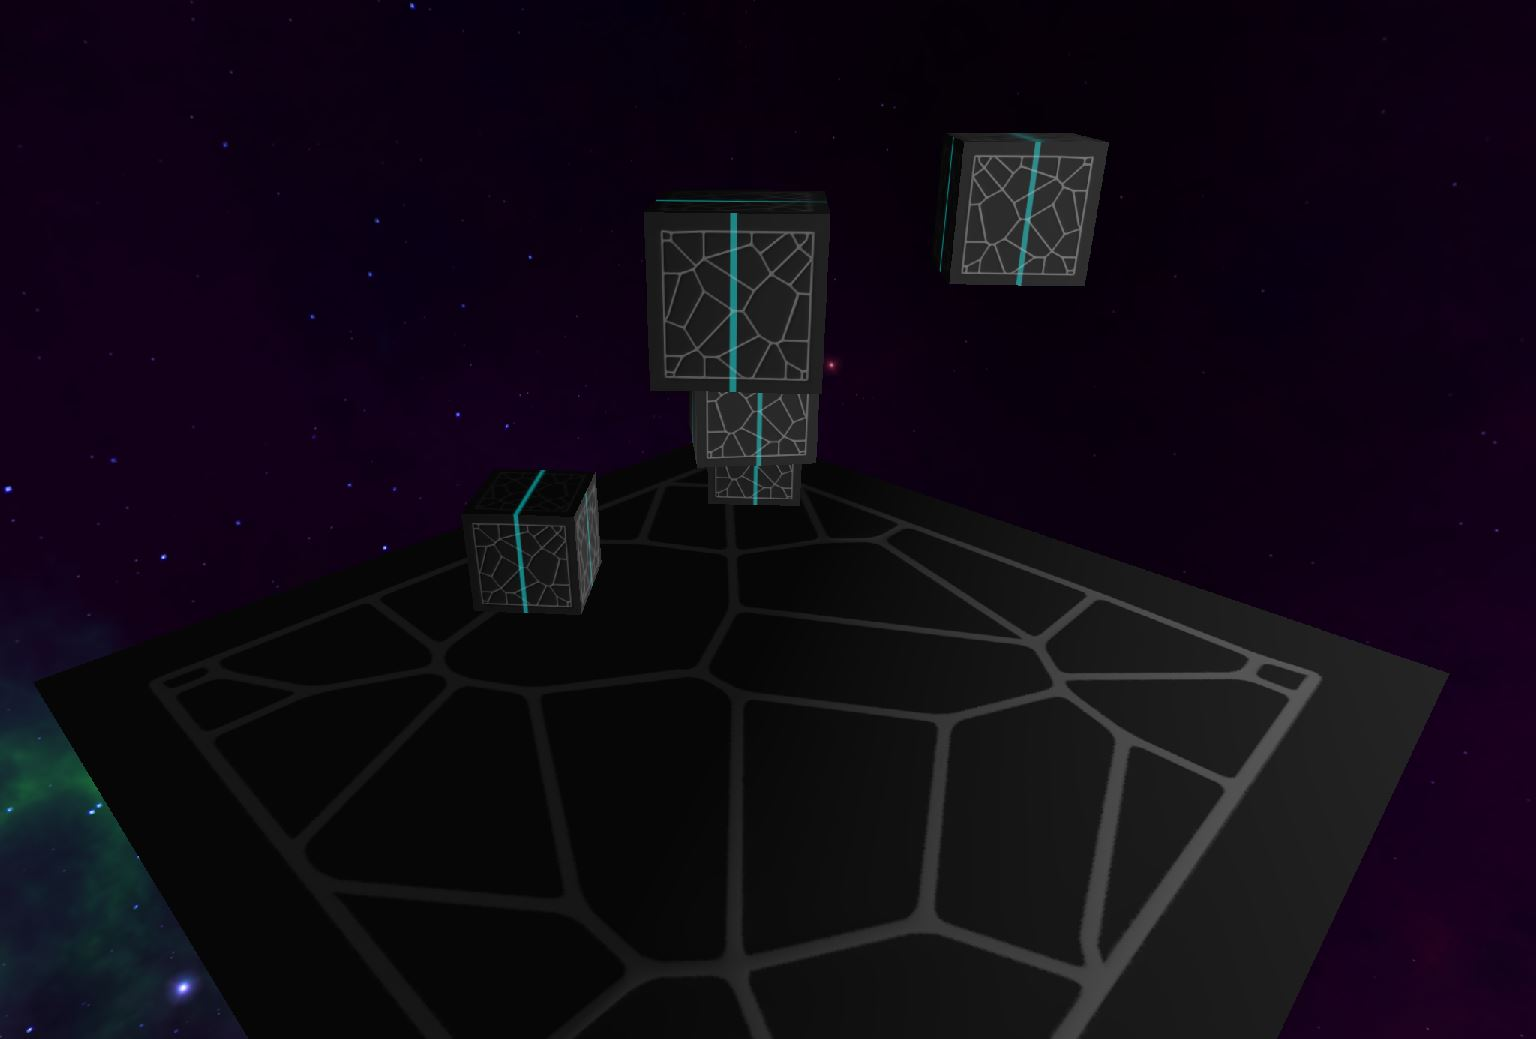
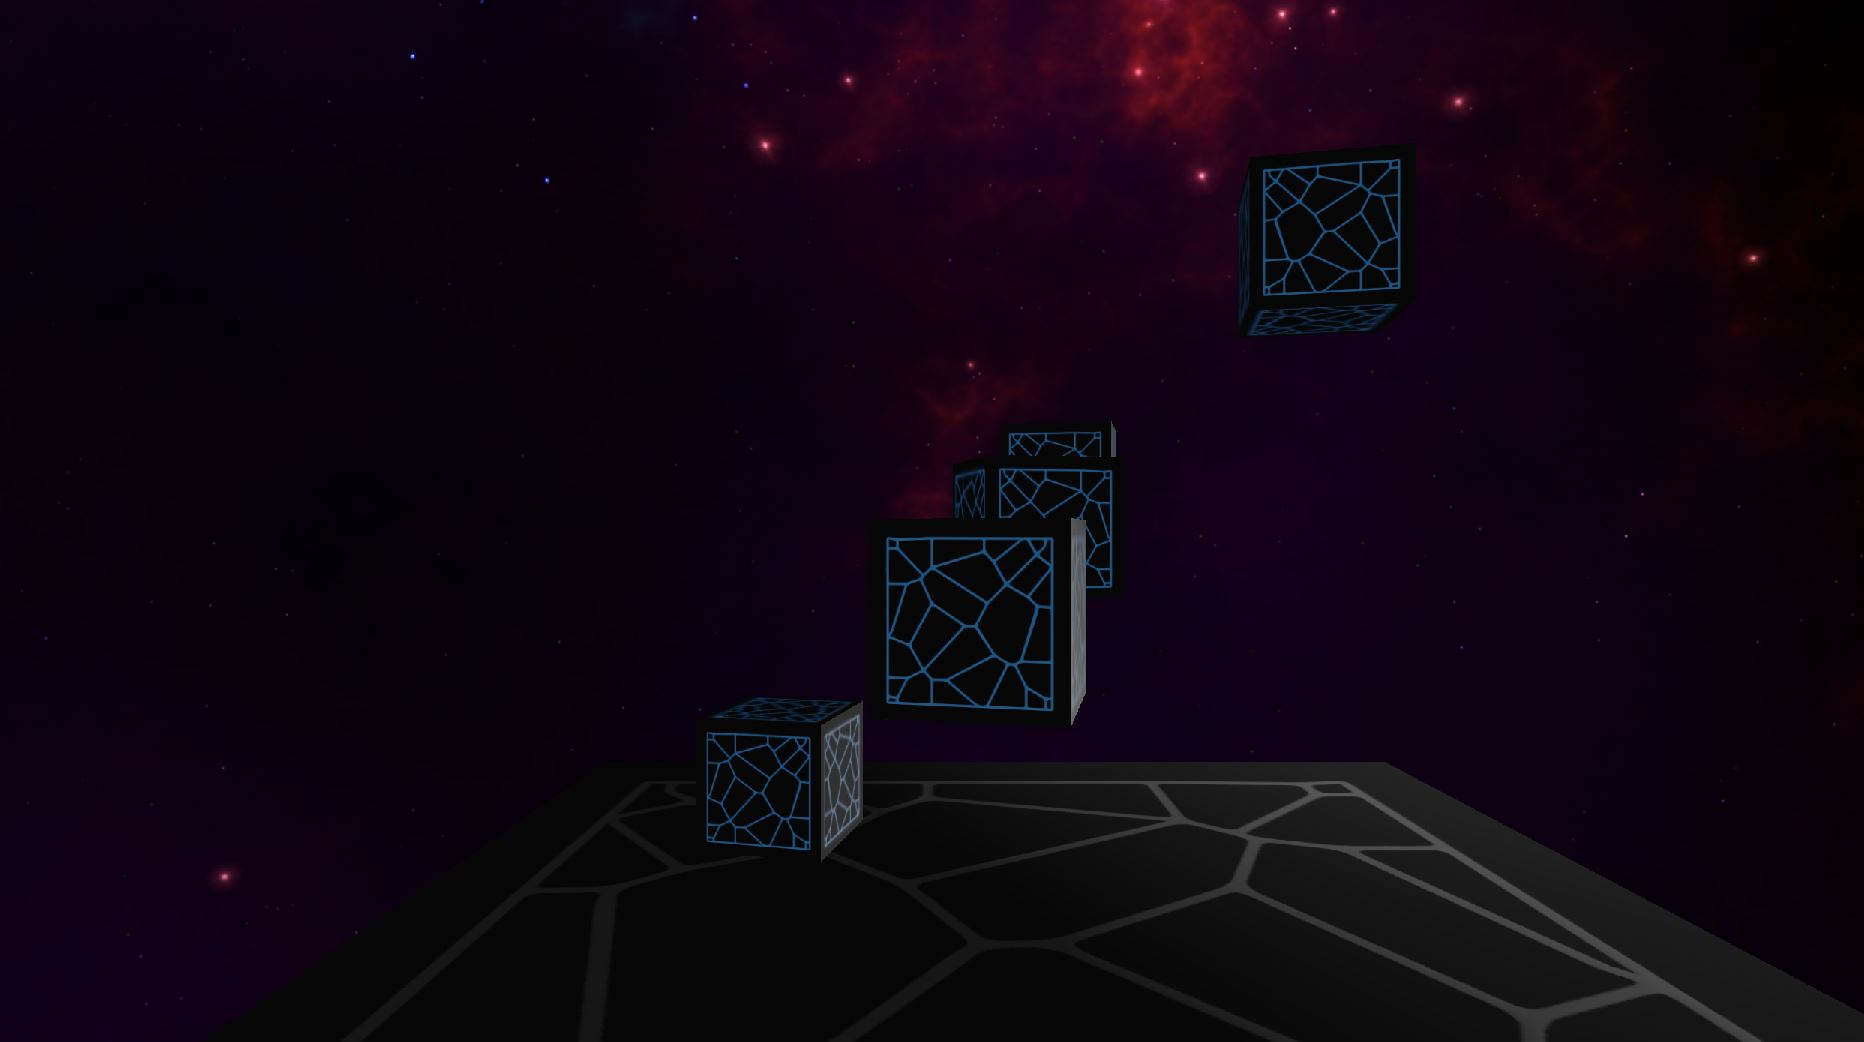
Changed emmissve texture, added build instructions for windows / linux, added troubleshooting guide

diff --git a/Readme.md b/Readme.md
@@ -29,8 +29,16 @@ CMake project generation
 cmake --preset conan-default
 ```
 
-Build in release mode
-```
-cd build
-cmake --build . --config Release
-```
+For Windows development, open the solution file (.sln) located in the newly created build directory.
+For Linux development, note that the build directory now should contain a Debug and Release directory which can be build via build command separately.
+
+## Troubleshooting
+
+In case of issues try (in no particular order)
+* Removing the build directory and the CMakeUserPresets.json
+* Cleaning the repository via ```git clean -xfd```
+* Deleting and cloning the whole repository again
+* Ensure your cmake version is at least 3.27.0
+* Ensure your conan profile is generated in case of a new conan installation
+* Ensure your conan is at version 2.x
+* Ensure your conan profile is set to C++ standard 17 or higher
